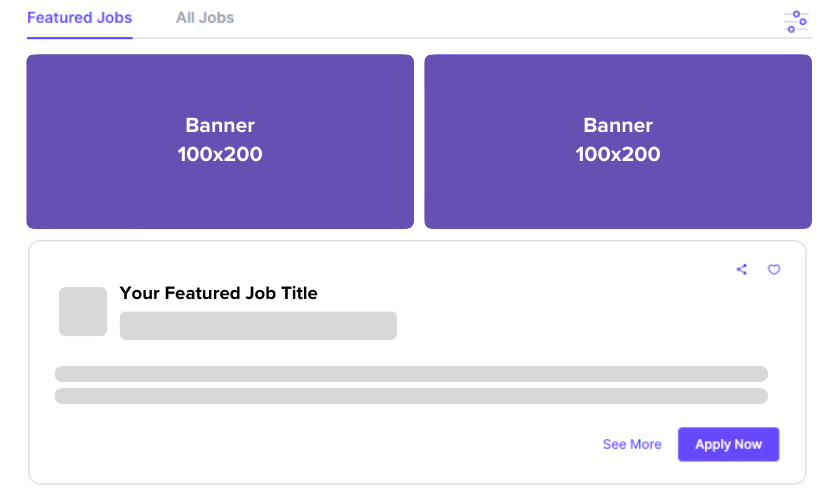
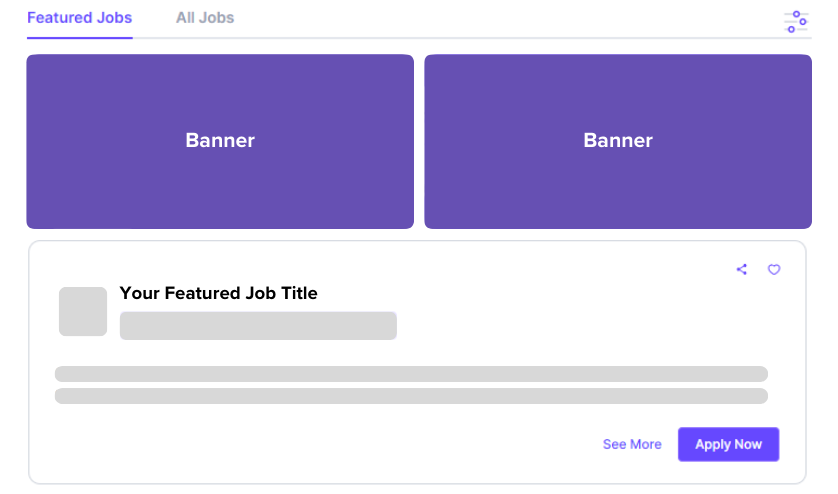
generate export

Changed region(s): [[0.6826, 0.2429, 0.8067, 0.334], [0.2172, 0.2429, 0.3103, 0.334]]

diff --git a/landing-2-export/index.html b/landing-2-export/index.html
@@ -33,7 +33,7 @@
       <div class="container">
         <div class="row mb-4">
           <div class="col-sm-12">
-            <p>
+            <p class="mb-4">
               Supercharge your brand's visibility and reach with our targeted
               advertising solutions! Elevate your business on our high-traffic
               landing page and connect with your ideal audience today for
@@ -159,7 +159,7 @@
                           >
                         </td>
                         <td>Top Of Page</td>
-                        <td>Graphic Banner 100x200</td>
+                        <td>Graphic Banner 365x200</td>
                         <td>1 Banner (no Slide)</td>
                         <td>$749/ 30Days</td>
                         <td><a href="https://zfrmz.com/2H5j1uP6Qe9Md9dz9Jb4"> Check Availability</a></td>
@@ -174,7 +174,7 @@
                           >
                         </td>
                         <td>Bottom of page</td>
-                        <td>Graphic Banner 100x200</td>
+                        <td>Graphic Banner 365x200</td>
                         <td>1 Banner (no Slide)</td>
                         <td>$449/ 30Days</td>
                         <td><a href="https://zfrmz.com/2H5j1uP6Qe9Md9dz9Jb4"> Check Availability</a></td>
@@ -189,7 +189,7 @@
                           >
                         </td>
                         <td>Top Of Page</td>
-                        <td>Graphic Banner 100x200</td>
+                        <td>Graphic Banner 365x200</td>
                         <td>1 Banner (no Slide)</td>
                         <td>$749/ 30Days</td>
                         <td><a href="https://zfrmz.com/2H5j1uP6Qe9Md9dz9Jb4"> Check Availability</a></td>
@@ -204,9 +204,9 @@
                           >
                         </td>
                         <td>Bottom of page</td>
-                        <td>Graphic Banner 100x200</td>
+                        <td>Graphic Banner 365x200</td>
                         <td>1 Banner (no Slide)</td>
-                        <td></td>
+                        <td>$449/ 30Days</td>
                         <td><a href="https://zfrmz.com/2H5j1uP6Qe9Md9dz9Jb4"> Check Availability</a></td>
                       </tr>
                     </tbody>
@@ -236,7 +236,7 @@
                           >
                         </td>
                         <td>Top Of Page</td>
-                        <td>Graphic Banner 100x200</td>
+                        <td>Graphic Banner 365x200</td>
                         <td>1 Banner (no Slide)</td>
                         <td>$649/ 30Days</td>
                         <td><a href="https://zfrmz.com/2H5j1uP6Qe9Md9dz9Jb4"> Check Availability</a></td>
@@ -251,9 +251,9 @@
                           >
                         </td>
                         <td>Bottom of page</td>
-                        <td>Graphic Banner 100x200</td>
+                        <td>Graphic Banner 365x200</td>
                         <td>1 Banner (no Slide)</td>
-                        <td></td>
+                        <td>$449/ 30Days</td>
                         <td><a href="https://zfrmz.com/2H5j1uP6Qe9Md9dz9Jb4"> Check Availability</a></td>
                       </tr>
                       <tr>
@@ -266,7 +266,7 @@
                           >
                         </td>
                         <td>Top Of Page</td>
-                        <td>Graphic Banner 100x200</td>
+                        <td>Graphic Banner 365x200</td>
                         <td>1 Banner (no Slide)</td>
                         <td>$549/ 30Days</td>
                         <td><a href="https://zfrmz.com/2H5j1uP6Qe9Md9dz9Jb4"> Check Availability</a></td>
@@ -281,9 +281,9 @@
                           >
                         </td>
                         <td>Bottom of page</td>
-                        <td>Graphic Banner 100x200</td>
+                        <td>Graphic Banner 365x200</td>
                         <td>1 Banner (no Slide)</td>
-                        <td></td>
+                        <td>$449/ 30Days</td>
                         <td><a href="https://zfrmz.com/2H5j1uP6Qe9Md9dz9Jb4"> Check Availability</a></td>
                       </tr>
                     </tbody>
@@ -413,7 +413,7 @@
                           >
                         </td>
                         <td>Top Of Page</td>
-                        <td>Graphic Banner 100x200</td>
+                        <td>Graphic Banner 620x203</td>
                         <td>1 Banner (no Slide)</td>
                         <td>$649/ 30Days</td>
                         <td><a href="https://zfrmz.com/2H5j1uP6Qe9Md9dz9Jb4"> Check Availability</a></td>
@@ -428,9 +428,9 @@
                           >
                         </td>
                         <td>Bottom of page</td>
-                        <td>Graphic Banner 100x200</td>
+                        <td>Graphic Banner 620x203</td>
                         <td>1 Banner (no Slide)</td>
-                        <td></td>
+                        <td>$449/ 30Days</td>
                         <td><a href="https://zfrmz.com/2H5j1uP6Qe9Md9dz9Jb4"> Check Availability</a></td>
                       </tr>
                     </tbody>
@@ -560,7 +560,7 @@
                           >
                         </td>
                         <td>Top Of Page</td>
-                        <td>Graphic Banner 100x200</td>
+                        <td>Graphic Banner 365x200</td>
                         <td>1 Banner (no Slide)</td>
                         <td>$449/ 30Days</td>
                         <td>Coming Soon</td>
@@ -575,9 +575,9 @@
                           >
                         </td>
                         <td>Bottom of page</td>
-                        <td>Graphic Banner 100x200</td>
+                        <td>Graphic Banner 365x200</td>
                         <td>1 Banner (no Slide)</td>
-                        <td></td>
+                        <td>$349/ 30Days</td>
                         <td>Coming Soon</td>
                       </tr>
                       <tr>
@@ -590,7 +590,7 @@
                           >
                         </td>
                         <td>Top Of Page</td>
-                        <td>Graphic Banner 100x200</td>
+                        <td>Graphic Banner 620x203</td>
                         <td>1 Banner (no Slide)</td>
                         <td>$549/ 30Days</td>
                         <td>Coming Soon</td>
@@ -605,9 +605,9 @@
                           >
                         </td>
                         <td>Bottom of page</td>
-                        <td>Graphic Banner 100x200</td>
+                        <td>Graphic Banner 620x203</td>
                         <td>1 Banner (no Slide)</td>
-                        <td></td>
+                        <td>$449/ 30Days</td>
                         <td>Coming Soon</td>
                       </tr>
                     </tbody>
